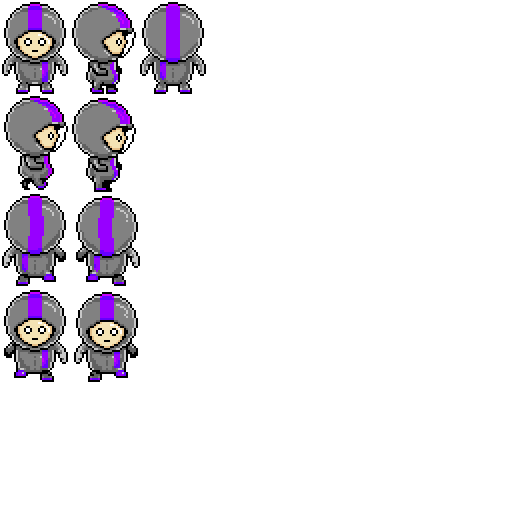
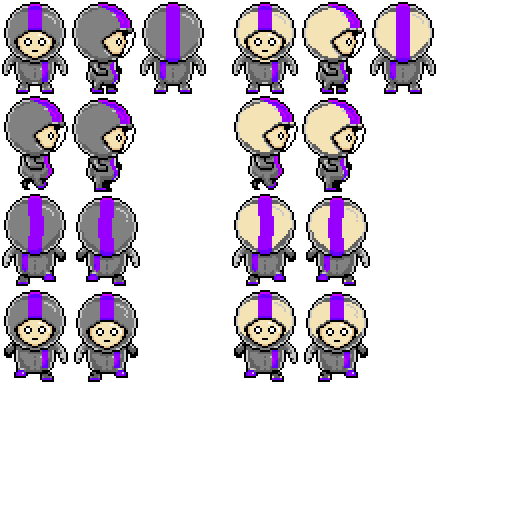
Refactoring character animation - added generic animation class

Changed region(s): [[0.4375, 0.0, 0.875, 0.75]]

diff --git a/Assets/Scripts/Models/CharacterAnimation.cs b/Assets/Scripts/Models/CharacterAnimation.cs
@@ -10,6 +10,30 @@ using System;
 using System.Collections.Generic;
 using UnityEngine;
 
+// these enums should make it easy to add 10 if walking and add 100 if helmet is off
+public enum AnimationType
+{
+    HELMET_IDLE_NORTH = 0,
+    HELMET_IDLE_EAST = 1,
+    HELMET_IDLE_SOUTH = 2,
+    HELMET_IDLE_WEST = 3,
+
+    HELMET_WALK_NORTH = 10,
+    HELMET_WALK_EAST = 11,
+    HELMET_WALK_SOUTH = 12,
+    HELMET_WALK_WEST = 13,
+
+    NOHELMET_IDLE_NORTH = 100,
+    NOHELMET_IDLE_EAST = 101,
+    NOHELMET_IDLE_SOUTH = 102,
+    NOHELMET_IDLE_WEST = 103,
+
+    NOHELMET_WALK_NORTH = 110,
+    NOHELMET_WALK_EAST = 111,
+    NOHELMET_WALK_SOUTH = 112,
+    NOHELMET_WALK_WEST = 113
+}
+
 /// <summary>
 /// CharacterAnimation gets reference to character, and should be able to 
 /// figure out which animation to play, by looking at character Facing and IsMoving.
@@ -18,9 +42,9 @@ public class CharacterAnimation
 {
     private Character character;
     private SpriteRenderer renderer;
-
-    // currentframe is incremented each update... fix to run on time instead
-    private int currentFrame = 0;
+    
+    // current shown frame
+    private int prevFrameIndex;
 
     // frames before loop. halfway through the next frame is triggered
     private int animationLength = 40;
@@ -28,103 +52,127 @@ public class CharacterAnimation
     // TODO: should be more flexible ....
     private Sprite[] sprites = new Sprite[9];
 
+    // Collection of animations
+    private Dictionary<AnimationType, Animation> animations;
+    private Animation currentAnimation;
+    private AnimationType currentAnimationType;
+
     public CharacterAnimation(Character c, SpriteRenderer r)
     {
         character = c;
         renderer = r;
+
+        Sprite[] sprites =
+            {
+                SpriteManager.current.GetSprite("Character", "tp2_idle_north"),
+                SpriteManager.current.GetSprite("Character", "tp2_idle_east"),
+                SpriteManager.current.GetSprite("Character", "tp2_idle_south"),
+                SpriteManager.current.GetSprite("Character", "tp2_walk_north_01"),
+                SpriteManager.current.GetSprite("Character", "tp2_walk_north_02"),
+                SpriteManager.current.GetSprite("Character", "tp2_walk_east_01"),
+                SpriteManager.current.GetSprite("Character", "tp2_walk_east_02"),
+                SpriteManager.current.GetSprite("Character", "tp2_walk_south_01"),
+                SpriteManager.current.GetSprite("Character", "tp2_walk_south_02"),
+
+                SpriteManager.current.GetSprite("Character", "tp2_nh_idle_north"),
+                SpriteManager.current.GetSprite("Character", "tp2_nh_idle_east"),
+                SpriteManager.current.GetSprite("Character", "tp2_nh_idle_south"),
+                SpriteManager.current.GetSprite("Character", "tp2_nh_walk_north_01"),
+                SpriteManager.current.GetSprite("Character", "tp2_nh_walk_north_02"),
+                SpriteManager.current.GetSprite("Character", "tp2_nh_walk_east_01"),
+                SpriteManager.current.GetSprite("Character", "tp2_nh_walk_east_02"),
+                SpriteManager.current.GetSprite("Character", "tp2_nh_walk_south_01"),
+                SpriteManager.current.GetSprite("Character", "tp2_nh_walk_south_02")
+            };
+        SetSprites(sprites);
+    }
+
+    public void SetSprites(Sprite[] s)
+    {
+        sprites = s;
+
+        // make sure that every sprite has correct filtermode
+        foreach (Sprite sprite in sprites)
+        {
+            sprite.texture.filterMode = FilterMode.Point;
+        }
+
+        animations = new Dictionary<AnimationType, Animation>();
+
+        animations.Add(AnimationType.HELMET_IDLE_NORTH, new Animation("in", new int[] { 0 }, 0.5f, false, false));
+        animations.Add(AnimationType.HELMET_IDLE_EAST, new Animation("ie", new int[] { 1 }, 0.5f, false, false));
+        animations.Add(AnimationType.HELMET_IDLE_SOUTH, new Animation("is", new int[] { 2 }, 0.5f, false, false));
+        animations.Add(AnimationType.HELMET_IDLE_WEST, new Animation("iw", new int[] { 1 }, 0.5f, false, true));
+
+        animations.Add(AnimationType.HELMET_WALK_NORTH, new Animation("wn", new int[] { 3, 4 }));
+        animations.Add(AnimationType.HELMET_WALK_EAST, new Animation("we", new int[] { 5, 6 }));
+        animations.Add(AnimationType.HELMET_WALK_SOUTH, new Animation("ws", new int[] { 7, 8 }));
+        animations.Add(AnimationType.HELMET_WALK_WEST, new Animation("ww", new int[] { 5, 6 }, 0.5f, true, true));
+
+        animations.Add(AnimationType.NOHELMET_IDLE_NORTH, new Animation("in", new int[] { 9 }, 0.2f, false, false));
+        animations.Add(AnimationType.NOHELMET_IDLE_EAST, new Animation("ie", new int[] { 10 }, 0.2f, false, false));
+        animations.Add(AnimationType.NOHELMET_IDLE_SOUTH, new Animation("is", new int[] { 11 }, 0.2f, false, false));
+        animations.Add(AnimationType.NOHELMET_IDLE_WEST, new Animation("iw", new int[] { 10 }, 0.2f, false, true));
+
+        animations.Add(AnimationType.NOHELMET_WALK_NORTH, new Animation("wn", new int[] { 12, 13 }, 0.2f));
+        animations.Add(AnimationType.NOHELMET_WALK_EAST, new Animation("we", new int[] { 14, 15 }, 0.2f));
+        animations.Add(AnimationType.NOHELMET_WALK_SOUTH, new Animation("ws", new int[] { 16, 17 }, 0.2f));
+        animations.Add(AnimationType.NOHELMET_WALK_WEST, new Animation("ww", new int[] { 14, 15 }, 0.2f, true, true));
+
+        currentAnimationType = AnimationType.HELMET_IDLE_SOUTH;
+        currentAnimation = animations[currentAnimationType];
+        prevFrameIndex = 0;
     }
 
     public void Update(float deltaTime)
     {
+        /*
         if (currentFrame >= animationLength)
         {
             currentFrame = 0;
         }
 
         currentFrame++;
-
-        CallAnimation();
-    }
-
-    public void SetSprites(Sprite[] s)
-    {
-        sprites = s;
-        
-        // make sure that every sprite has correct filtermode
-        foreach (Sprite sprite in sprites)
-        {
-            sprite.texture.filterMode = FilterMode.Point;
-        }
-    }
-
-    private void CallAnimation()
-    {
+        */
+        int newAnimation = (int)character.CharFacing;
         if (character.IsWalking)
         {
-            // character walking
-            switch (character.CharFacing)
-            {
-                case Facing.NORTH: // walk north
-                    ToggleAnimation(5, 6);
-                    renderer.flipX = false;
-                    break;
-                case Facing.EAST: // walk east
-                    ToggleAnimation(3, 4);
-                    renderer.flipX = false;
-                    break;
-                case Facing.SOUTH: // walk south
-                    ToggleAnimation(7, 8);
-                    renderer.flipX = false;
-                    break;
-                case Facing.WEST: // walk west
-                    ToggleAnimation(3, 4); // FLIP east sprite
-                    renderer.flipX = true;
-                    break;
-                default:
-                    break;
-            }
+            newAnimation += 10;
         }
-        else
+        
+        if (character.CurrTile.Room != null)
         {
-            // character idle
-            switch (character.CharFacing)
+            if (character.CurrTile.Room.GetGasAmount("O2") > 0.005f)
             {
-                case Facing.NORTH: // walk north
-                    ShowSprite(2);
-                    renderer.flipX = false;
-                    break;
-                case Facing.EAST: // walk east
-                    ShowSprite(1);
-                    renderer.flipX = false;
-                    break;
-                case Facing.SOUTH: // walk south
-                    ShowSprite(0);
-                    renderer.flipX = false;
-                    break;
-                case Facing.WEST: // walk west
-                    ShowSprite(1); // FLIP east sprite
-                    renderer.flipX = true;
-                    break;
-                default:
-                    break;
-            }
+                newAnimation += 100; // Remove helmet
+            }           
         }
-    }
 
-    private void ToggleAnimation(int s1, int s2)
-    {
-        if (currentFrame == 1)
+        if (newAnimation != (int)currentAnimationType)
         {
-            renderer.sprite = sprites[s1];
+            currentAnimationType = (AnimationType)newAnimation;
+            currentAnimation = animations[currentAnimationType];
+            if (currentAnimation.FlipX == true && renderer.flipX == false)
+            {
+                renderer.flipX = true;
+            }
+            else
+            {
+                renderer.flipX = false;
+            }
         }
-        else if (currentFrame == animationLength / 2)
+
+        currentAnimation.Update(deltaTime);
+
+        if (prevFrameIndex != currentAnimation.CurrentIndex)
         {
-            renderer.sprite = sprites[s2];
-        }        
-    }
+            ShowSprite(currentAnimation.CurrentIndex);
+            prevFrameIndex = currentAnimation.CurrentIndex;
+        }
+    }    
 
     private void ShowSprite(int s)
-    {        
-        renderer.sprite = sprites[s];                       
+    {
+        renderer.sprite = sprites[s];
     }
 }

diff --git a/Assets/Scripts/Models/Animation.cs b/Assets/Scripts/Models/Animation.cs
@@ -1,0 +1,104 @@
+#region License
+// ====================================================
+// Project Porcupine Copyright(C) 2016 Team Porcupine
+// This program comes with ABSOLUTELY NO WARRANTY; This is free software, 
+// and you are welcome to redistribute it under certain conditions; See 
+// file LICENSE, which is part of this source code package, for details.
+// ====================================================
+#endregion
+using System;
+using System.Collections.Generic;
+using UnityEngine;
+
+/// <summary>
+/// Animation class.
+/// </summary>
+public class Animation
+{    
+    // index in spritesheet
+    public int CurrentIndex;
+    public bool FlipX;
+
+    // frame of animation. 0 to frames.length
+    private int currentFrame;
+    private int frameCount;
+    
+    // delay between frames in seconds
+    private float delay;
+    private bool finished;
+    private bool loops;
+    
+    // easier to debug with a name. Can be removed
+    private string name;
+    private int[] frames;
+    private float timer = 0;
+
+    public Animation(string name, int[] frames, float delay = .5f, bool loops = true, bool flipX = false)
+    {
+        this.name = name;
+        this.frames = frames;
+        this.delay = delay;
+        this.loops = loops;
+        this.FlipX = flipX;
+
+        frameCount = this.frames.Length;
+        currentFrame = 0;
+        CurrentIndex = this.frames[currentFrame];
+    }
+
+    public void Play()
+    {
+        finished = false;
+        currentFrame = 0;
+        CurrentIndex = frames[currentFrame];
+    }
+
+    public void SetFrame(int frame)
+    {
+        if (frame > frameCount)
+        {
+            Debug.LogError("Animation SetFrame frame " + frame + " int is larger than array length " + frameCount + ".");
+        }
+
+        finished = false;
+        currentFrame = frame;
+        CurrentIndex = frames[currentFrame];
+    }
+
+    public void Update(float deltaTime)
+    {       
+        if (finished)
+        {
+            return;
+        }
+
+        timer += deltaTime;
+        
+        // Is it time to switch to next frame?
+        if (timer >= delay)
+        {
+            timer = 0;
+            
+            // do we need to loop?
+            if (currentFrame >= frameCount - 1)
+            {
+                if (loops)
+                {
+                    currentFrame = 0;
+                }
+                else
+                {
+                    finished = true;
+                }
+            }
+            else
+            {
+                currentFrame++;
+            }
+
+            CurrentIndex = frames[currentFrame];
+        }
+        
+        // TODO: if we need a callback after finished animation - put it here
+    }
+}

diff --git a/Assets/Scripts/Controllers/CharacterSpriteController.cs b/Assets/Scripts/Controllers/CharacterSpriteController.cs
@@ -83,21 +83,6 @@ public class CharacterSpriteController
         // Add material with color replacement shader, and generate color replacement texture
         sr.material = GetMaterial(c);        
         c.animation = new CharacterAnimation(c, sr);
-
-        // load all character sprites 
-        Sprite[] sprites = 
-            {
-                SpriteManager.current.GetSprite("Character", "tp2_idle_south"),
-                SpriteManager.current.GetSprite("Character", "tp2_idle_east"),
-                SpriteManager.current.GetSprite("Character", "tp2_idle_north"),
-                SpriteManager.current.GetSprite("Character", "tp2_walk_east_01"),
-                SpriteManager.current.GetSprite("Character", "tp2_walk_east_02"),
-                SpriteManager.current.GetSprite("Character", "tp2_walk_north_01"),
-                SpriteManager.current.GetSprite("Character", "tp2_walk_north_02"),
-                SpriteManager.current.GetSprite("Character", "tp2_walk_south_01"),
-                SpriteManager.current.GetSprite("Character", "tp2_walk_south_02")
-            };
-        c.animation.SetSprites(sprites);
         
         // Add the inventory sprite onto the character
         GameObject inv_go = new GameObject("Inventory");
@@ -176,24 +161,6 @@ public class CharacterSpriteController
         }
 
         GameObject char_go = characterGameObjectMap[c];
-        ///Debug.ULogChannel("CharacterSpriteController",char_go.ToString());
-        ///Debug.ULogChannel("CharacterSpriteController",char_go.GetComponent<SpriteRenderer>().ToString());
-
-        // TODO: When we have a helmetless spritesheet, use this check to switch spritesheet on the character
-        /*
-        if (c.CurrTile.Room != null)
-        {
-            if (c.CurrTile.Room.GetGasAmount("O2") <= 0.5f && char_go.transform.GetChild(1).GetComponent<SpriteRenderer>().enabled == false)
-            {
-                char_go.transform.GetChild(1).GetComponent<SpriteRenderer>().enabled = true;
-            }
-            else if (c.CurrTile.Room.GetGasAmount("O2") >= 0.5f && char_go.transform.GetChild(1).GetComponent<SpriteRenderer>().enabled == true)
-            {
-                char_go.transform.GetChild(1).GetComponent<SpriteRenderer>().enabled = false;
-            }
-        }
-        */
-
         char_go.transform.position = new Vector3(c.X, c.Y, 0);
     }
 }
